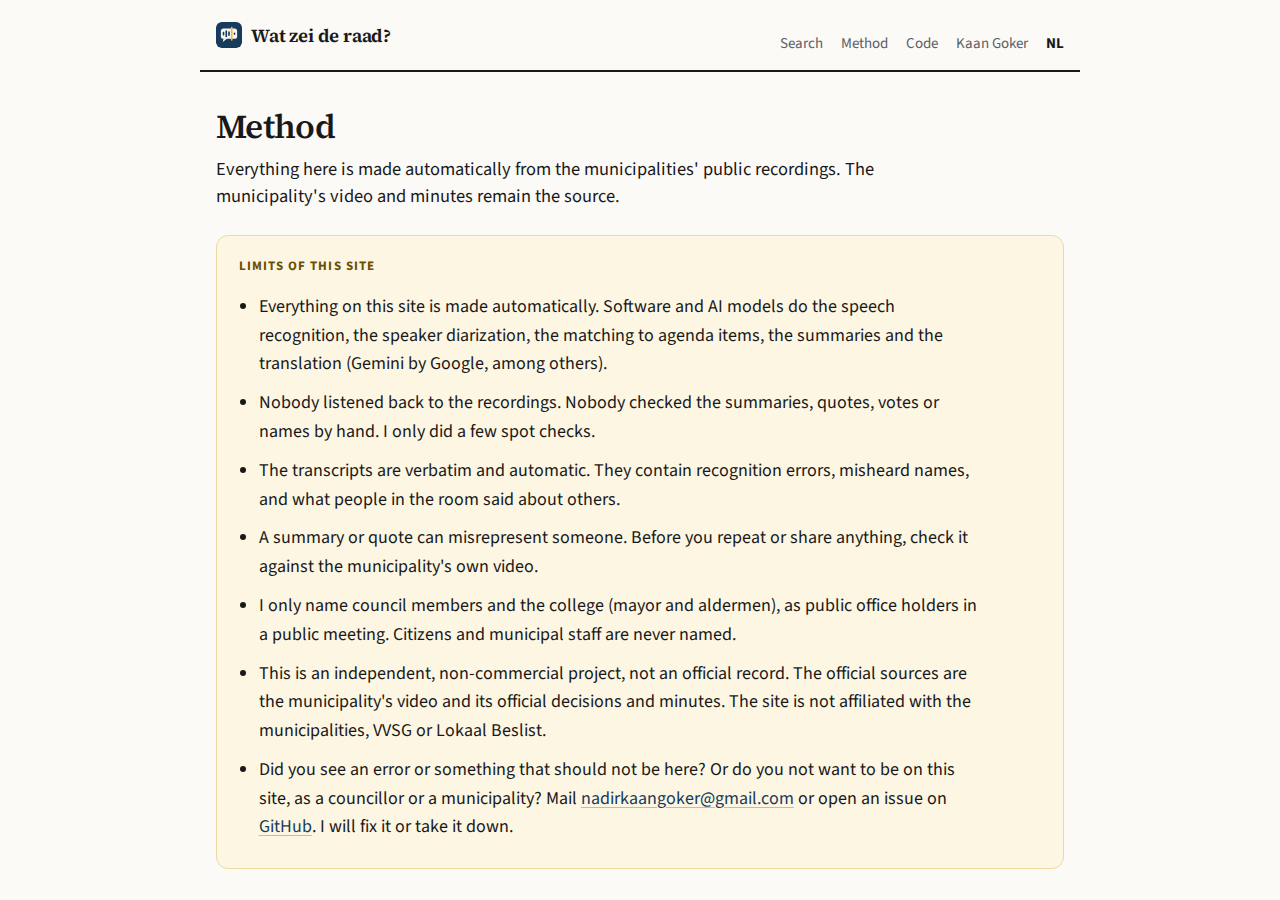
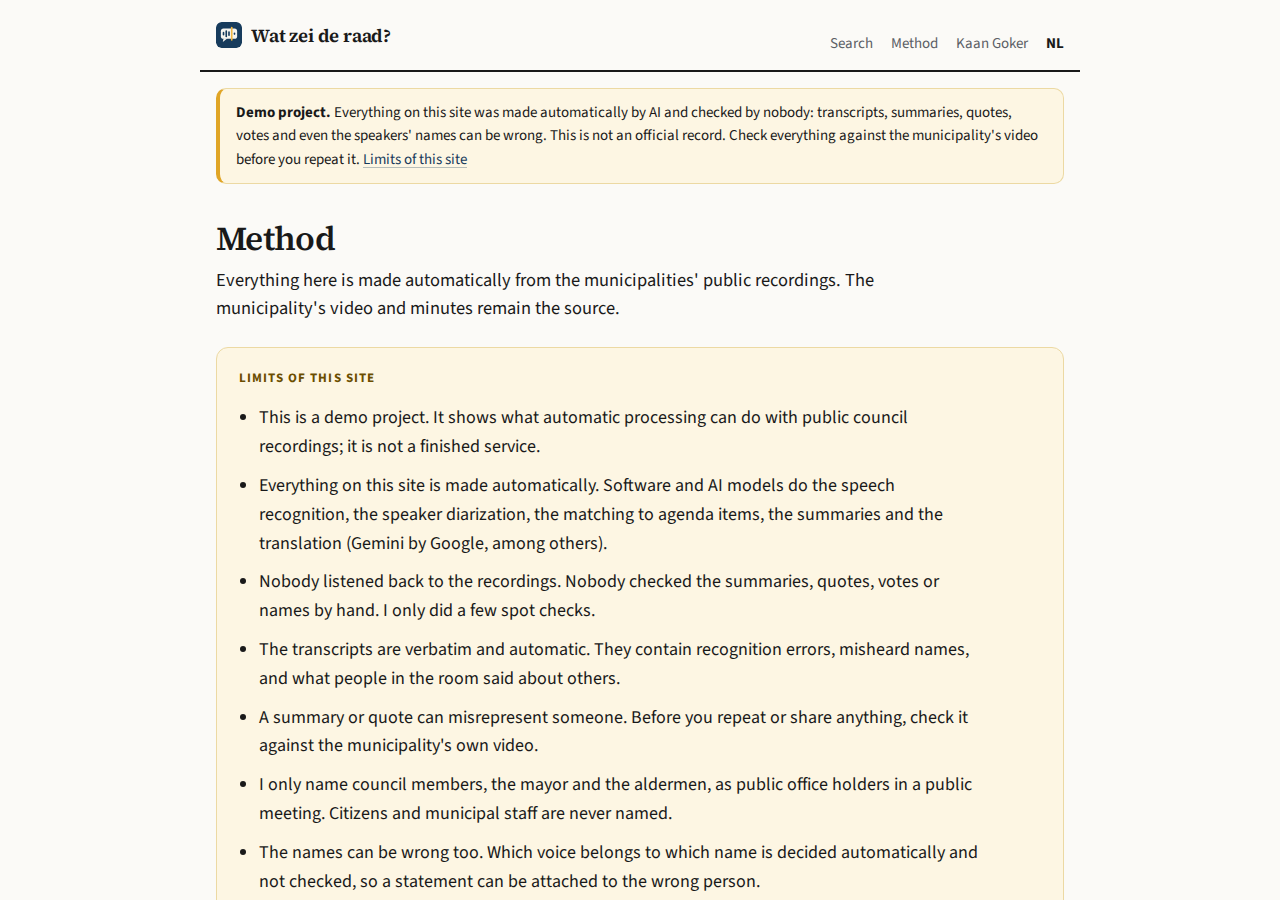
Update the README and screenshots to the new site

Changed region(s): [[0.1562, 0.0933, 0.8125, 0.9956], [0.5938, 0.0311, 0.75, 0.0622]]

diff --git a/README.md b/README.md
@@ -2,9 +2,9 @@
 
 ![Wat zei de raad?](assets/banner.png)
 
-Wat zei de raad? turns the council recordings of three Flemish municipalities (14 meetings, 26 hours) into one page per agenda item: a summary checked against the transcript, the official vote, who spoke how long, and the exact second in the municipality's own video. Speech recognition, speaker diarization and LLM summaries, each verified against the transcript or the open data before anything is shown.
+Wat zei de raad? turns the council recordings of three Flemish municipalities (14 meetings, 26 hours) into one page per agenda item: a summary checked against the transcript, the official vote, who spoke how long, and the exact second in the municipality's own video. Speech recognition, speaker diarization and LLM summaries, each verified against the transcript or the open data before anything is shown. It is a demo: nobody checked the output by hand, so the municipality's video stays the source.
 
-**Built with:** Python 3.12, faster-whisper (large-v3-turbo), sherpa-onnx with pyannote segmentation 3.0 and 3D-Speaker ERes2Net, sentence-transformers (multilingual MiniLM), Gemini 2.5 Flash Lite, SQLite, SPARQL on Lokaal Beslist and the Mandatendatabank, MiniSearch, a static site on GitHub Pages.
+**Built with:** Python 3.12, faster-whisper (large-v3-turbo), sherpa-onnx with pyannote segmentation 3.0 and 3D-Speaker ERes2Net, sentence-transformers (multilingual MiniLM), Gemini 2.5 Flash Lite and 2.5 Flash, SQLite, SPARQL on Lokaal Beslist and the Mandatendatabank, MiniSearch, a static site on GitHub Pages.
 
 **Site:** [kaangoker.dev/raadzaal](https://kaangoker.dev/raadzaal/) (Dutch and English) · **Numbers:** [EVALUATION.md](EVALUATION.md)
 
@@ -17,6 +17,10 @@ Wat zei de raad? turns the council recordings of three Flemish municipalities (1
 Flemish municipalities film their public council meetings and put the whole evening online as one video of one to four hours. Almost nobody watches those. This project splits each recording into its agenda items and gives every item a start time, a short neutral summary, the vote, a quote you can click to hear in context, and a search box across every meeting. The site reads in Dutch or English: summaries, decisions and agenda titles are translated, quotes keep the original Dutch with a translation next to them, and transcripts stay in Dutch as spoken.
 
 The first three municipalities are Haacht, Tervuren and Beernem: 14 meetings of 2026, 26 hours of audio, 333 agenda items of which 286 are placed on the timeline. Adding another municipality is an entry in `municipalities.yaml` with the YouTube channel, a title pattern and, where it exists, the Lokaal Beslist harvester.
+
+![Home page](assets/home-1280.png)
+
+*The home page: the three municipalities, a search box, and the time per topic for all of them or one at a time. A questions round is split into two-minute windows, so its time goes to the topics that were raised.*
 
 What the pipeline checks before it shows something:
 
@@ -92,7 +96,7 @@ tests/           pytest, with recorded SPARQL answers and hand-labelled item sta
 scripts/         pipeline runners, CUDA environment, screenshots
 ```
 
-Leuven, where I live, is on the list but switched off: its recordings are on the city's own portal, which did not answer requests from outside the EU when I checked.
+Leuven, where I live, is on the list but switched off. Its recordings sit on a webcast service that blocks downloads, so Leuven waits until the city gives permission.
 
 ## Data sources
 
@@ -100,11 +104,15 @@ Leuven, where I live, is on the list but switched off: its recordings are on the
 - Agendas, vote counts and links to the official files: [Lokaal Beslist](https://lokaalbeslist.vlaanderen.be), Flemish government, through its harvester SPARQL endpoints.
 - Council members, roles and groups: the Flemish [Mandatendatabank](https://data.lblod.info/sparql).
 - The site stores no audio or video. It links to the second in each municipality's own recording and shows the transcript lines; under Belgian copyright law, speeches made in deliberative assemblies such as a municipal council may be freely reproduced and communicated to the public (Code of Economic Law, art. XI.172 §1).
-- Models: [faster-whisper](https://github.com/SYSTRAN/faster-whisper) large-v3-turbo, [sherpa-onnx](https://github.com/k2-fsa/sherpa-onnx) with pyannote segmentation 3.0 and 3D-Speaker ERes2Net, [paraphrase-multilingual-MiniLM-L12-v2](https://huggingface.co/sentence-transformers/paraphrase-multilingual-MiniLM-L12-v2), Gemini 2.5 Flash Lite.
+- Models: [faster-whisper](https://github.com/SYSTRAN/faster-whisper) large-v3-turbo, [sherpa-onnx](https://github.com/k2-fsa/sherpa-onnx) with pyannote segmentation 3.0 and 3D-Speaker ERes2Net, [paraphrase-multilingual-MiniLM-L12-v2](https://huggingface.co/sentence-transformers/paraphrase-multilingual-MiniLM-L12-v2), Gemini 2.5 Flash Lite and 2.5 Flash.
 
 ## Limits, privacy and removal
 
-Speech recognition makes mistakes, more so with dialect, bad microphones and people talking over each other. The video is always the source. Only public meetings that a municipality published itself are used, and only agenda items marked public. Summaries name only council members who held a seat on that date; the transcript is verbatim, so it holds whatever was said in the room. If something on the site should not be there, mail nadirkaangoker@gmail.com or open an issue, and it comes down within 48 hours.
+This is a demo project. Everything is made automatically and nobody checked it by hand: transcripts, summaries, quotes, votes and speaker names can all be wrong, and a statement can end up next to the wrong name. Speech recognition makes more mistakes with dialect, bad microphones and people talking over each other.
+
+The site is not an official record. The municipality's video and minutes are the source, and a warning at the top of every page says so. Only public meetings that a municipality published itself are used, and only agenda items marked public. Only council members, the mayor and the aldermen are named, never citizens or municipal staff. The transcript is verbatim, so it holds whatever was said in the room.
+
+If something on the site should not be there, mail nadirkaangoker@gmail.com or open an issue, and I will fix it or take it down.
 
 ## License
 
